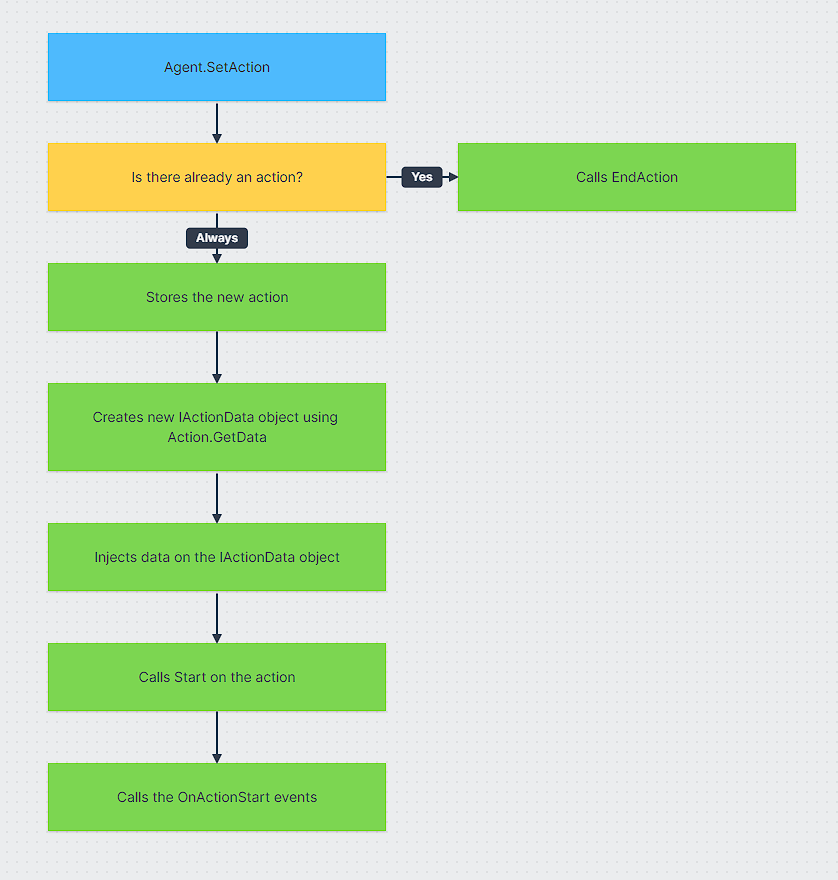
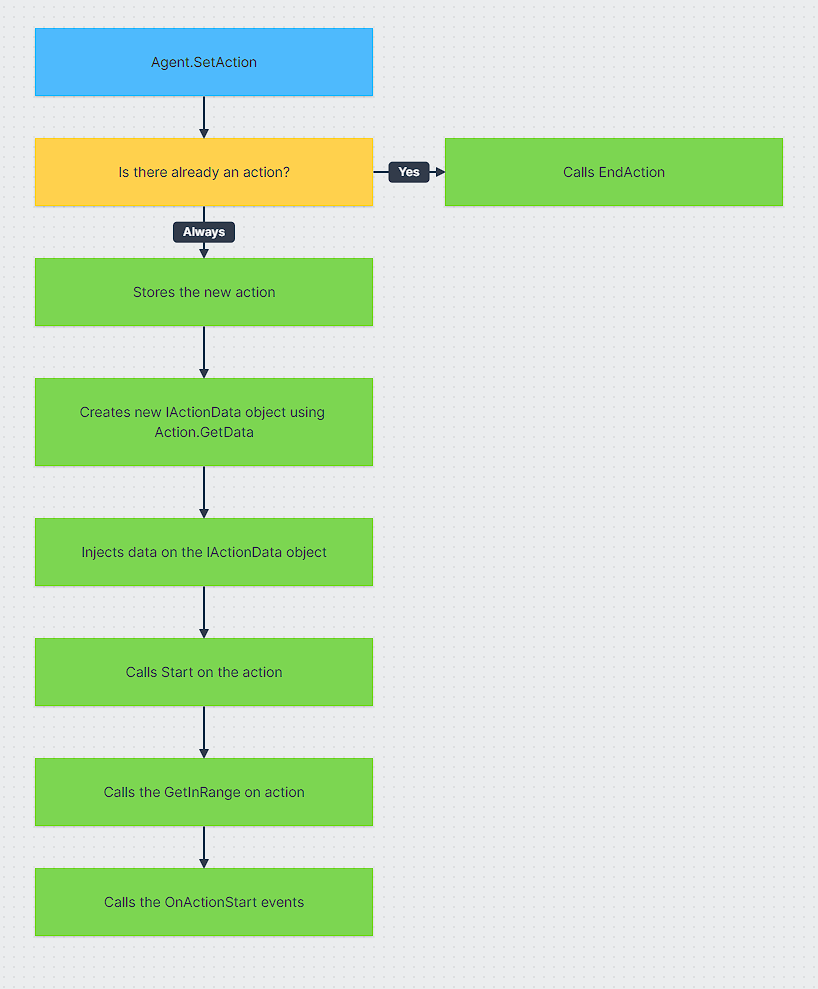
Added GetInRange method on action

Changed region(s): [[0.0306, 0.0307, 0.978, 0.9511]]

diff --git a/Package/Runtime/CrashKonijn.Goap/Behaviours/AgentBehaviour.cs b/Package/Runtime/CrashKonijn.Goap/Behaviours/AgentBehaviour.cs
@@ -31,8 +31,9 @@ namespace CrashKonijn.Goap.Behaviours
         public IGoalBase CurrentGoal { get; private set; }
         public IActionBase CurrentAction  { get;  private set;}
         public IActionData CurrentActionData { get; private set; }
-        public IWorldData WorldData { get; } = new LocalWorldData();
+        public float CurrentActionInRange { get; set; }
         public List<IActionBase> CurrentActionPath { get; private set; } = new List<IActionBase>();
+        public IWorldData WorldData { get; } = new LocalWorldData();
         public IAgentEvents Events { get; } = new AgentEvents();
         public IDataReferenceInjector Injector { get; private set; }
 
@@ -78,7 +79,7 @@ namespace CrashKonijn.Goap.Behaviours
 
         private void RunPerformWhileMoving()
         {
-            if (this.GetDistance() > this.CurrentAction.Config.InRange)
+            if (this.GetDistance() > this.CurrentActionInRange)
             {
                 this.State = AgentState.MovingWhilePerformingAction;
 
@@ -93,7 +94,7 @@ namespace CrashKonijn.Goap.Behaviours
 
         private void RunMoveBeforePerforming()
         {
-            if (this.GetDistance() <= this.CurrentAction.Config.InRange)
+            if (this.GetDistance() <= this.CurrentActionInRange)
             {
                 this.State = AgentState.PerformingAction;
                 this.PerformAction();
@@ -172,6 +173,7 @@ namespace CrashKonijn.Goap.Behaviours
             this.CurrentActionData.Target = target;
             this.CurrentActionPath = path;
             this.CurrentAction.Start(this, this.CurrentActionData);
+            this.CurrentActionInRange = this.CurrentAction.GetInRange(this, this.CurrentActionData);
             this.Events.ActionStart(action);
         }
         

diff --git a/Package/Runtime/CrashKonijn.Goap/Interfaces/IActionBase.cs b/Package/Runtime/CrashKonijn.Goap/Interfaces/IActionBase.cs
@@ -9,6 +9,7 @@ namespace CrashKonijn.Goap.Interfaces
     public interface IActionBase : IAction, IHasConfig<IActionConfig>
     {
         float GetCost(IMonoAgent agent, IComponentReference references);
+        float GetInRange(IMonoAgent agent, IActionData data);
         IActionData GetData();
         void Created();
         public ActionRunState Perform(IMonoAgent agent, IActionData data, ActionContext context);

diff --git a/Package/Runtime/CrashKonijn.Goap/Behaviours/ActionBase.cs b/Package/Runtime/CrashKonijn.Goap/Behaviours/ActionBase.cs
@@ -56,6 +56,11 @@ namespace CrashKonijn.Goap.Behaviours
         {
             return this.config.BaseCost;
         }
+        
+        public virtual float GetInRange(IMonoAgent agent, IActionData data)
+        {
+            return this.config.InRange;
+        }
 
         public abstract IActionData GetData();
         public abstract void Created();

diff --git a/Package/Documentation/Classes/Actions.md b/Package/Documentation/Classes/Actions.md
@@ -52,7 +52,7 @@ public class Data : IActionData
 An action always inherits from the `ActionBase<TData>` class. The generic type is the action data class. The action data class is used to store the state of the action. The action class itself should be stateless, since only one instance is used to perform the same action on multiple agents.
 
 ### ActionRunState
-The `ActionRunState` is an enum that determines the state of the action. It can be one of the following values: `Continue` or `Stop`.
+The `ActionRunState` is an enum that determines the state of the action. It can be one of the following values: `Continue` or `Stop`. Stop will stop the action and return to the planner. Continue will continue the action and perform it again next frame.
 
 ### Examples
 {% code title="WanderAction.cs" lineNumbers="true" %}
@@ -66,13 +66,26 @@ namespace Demos.Actions
 {
     public class WanderAction : ActionBase<WanderAction.Data>
     {
+        // You can implement a custom cost function. This is useful if you want to add dynamic costs to the action.
+        public override float GetCost(IMonoAgent agent, IComponentReference references)
+        {
+            return 5f;
+        }
+        
+        // You can implement a custom in range function. This is useful if you want to add dynamic in range values to the action.
+        // This method is called right after Start
+        public override float GetInRange(IMonoAgent agent, IActionData data)
+        {
+            return 2f;
+        }
+    
         // This methods is called when the action is created. It is used to initialize the action.
         public override void Created()
         {
         }
     
         // This method is called when the action is started. It is used to initialize the action.
-        public override void OnStart(IMonoAgent agent, Data data)
+        public override void Start(IMonoAgent agent, Data data)
         {
         }
 
@@ -83,7 +96,7 @@ namespace Demos.Actions
         }
 
         // This method is called when the action is stopped. It is used to clean up the action.
-        public override void OnEnd(IMonoAgent agent, Data data)
+        public override void End(IMonoAgent agent, Data data)
         {
         }
 
